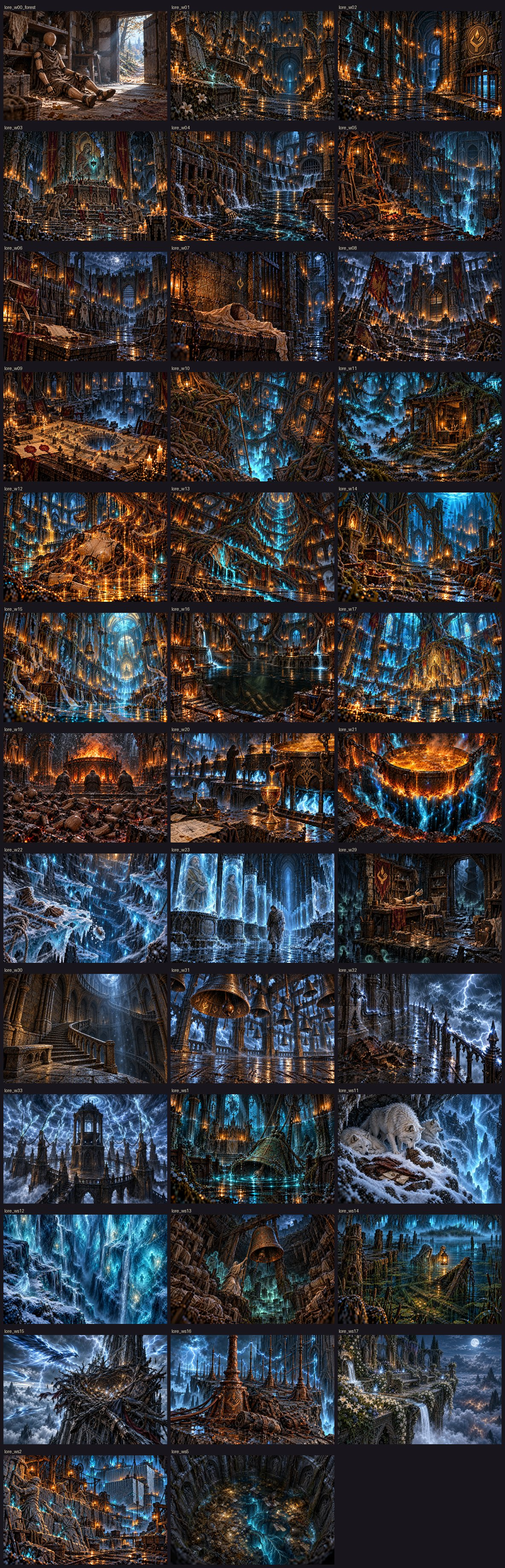
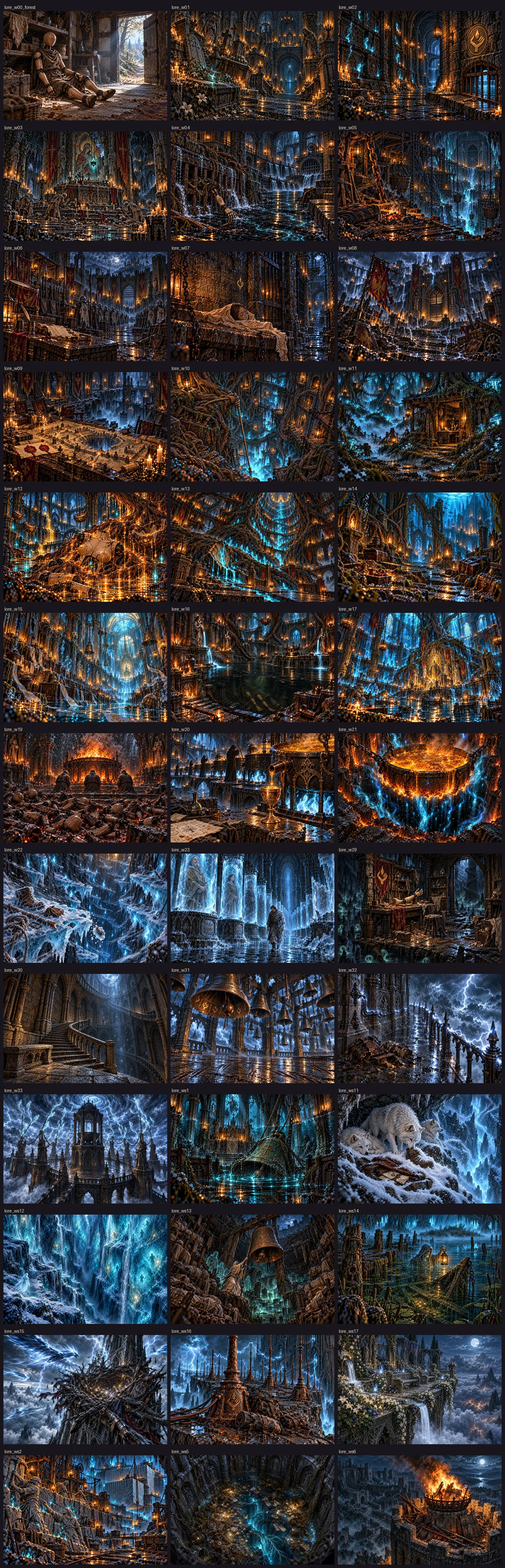
見捨てられた狼煙台の描き下ろしWebPを由来と出撃画面へ登録

Changed region(s): [[0.6562, 0.8998, 1.0, 1.0]]

diff --git a/src/ui/departure.js b/src/ui/departure.js
@@ -23,6 +23,7 @@ import { ELEMENTS } from "../dungeons/index.js";
 import { iconCanvas } from "../townart.js";
 import { drawDungeonVista } from "../backdrops.js";
 import { CHAPTERS } from "../story.js";
+import { LORE_IMAGES } from "../storyimages.js";
 import { dungeonQuestSheet, dungeonActiveQuestSheet, byLevelDesc } from "./questboard.js";
 
 const G = () => game.G;
@@ -89,6 +90,18 @@ function gateIcon(kind) {
 // ---- 迷宮の顔 (上半分): 選んでいる迷宮の情景・説明・記録 ----
 const VISTA_W = 480, VISTA_H = 320; // 戦闘背景と同じ 3:2 で描き、表示枠 (横長) で上下を切る
 let vistaLoop = 0;
+function vistaIllustration(dn) {
+  const path = dn.id === "ws6" && LORE_IMAGES[dn.id];
+  if (!path) return vistaCanvas(dn);
+  const img = document.createElement("img");
+  img.className = "dp-vista-cv";
+  img.style.imageRendering = "auto";
+  img.alt = `${dn.name}の情景`;
+  img.decoding = "async";
+  img.onerror = () => { if (img.isConnected) img.replaceWith(vistaCanvas(dn)); };
+  img.src = path;
+  return img;
+}
 function vistaCanvas(dn) {
   const cv = document.createElement("canvas");
   cv.width = VISTA_W; cv.height = VISTA_H;
@@ -176,7 +189,7 @@ function renderHero(b) {
   if (!dn) return;
   const hero = el("div", "dp-hero");
   const pic = el("div", "dp-vista");
-  pic.appendChild(vistaCanvas(dn));
+  pic.appendChild(vistaIllustration(dn));
   const cap = el("div", "dp-vista-cap");
   const band = game.levelBand ? game.levelBand(dn) : [1, 1];
   const ttl = el("div", "dp-hero-t");

diff --git a/src/storyimages.js b/src/storyimages.js
@@ -149,6 +149,7 @@ export const LORE_IMAGES = {
   ws1: "art/story/dungeons/lore_ws1.webp",
   ws2: "art/story/dungeons/lore_ws2.webp",
   ws5: "art/story/dungeons/lore_ws5.webp",
+  ws6: "art/story/dungeons/lore_ws6.webp",
   ws11: "art/story/dungeons/lore_ws11.webp",
   ws12: "art/story/dungeons/lore_ws12.webp",
   ws13: "art/story/dungeons/lore_ws13.webp",

diff --git a/sw.js b/sw.js
@@ -234,6 +234,7 @@ const ASSETS = [
   "./art/story/dungeons/lore_ws1.webp",
   "./art/story/dungeons/lore_ws2.webp",
   "./art/story/dungeons/lore_ws5.webp",
+  "./art/story/dungeons/lore_ws6.webp",
   "./art/story/dungeons/lore_ws11.webp",
   "./art/story/dungeons/lore_ws12.webp",
   "./art/story/dungeons/lore_ws13.webp",

diff --git a/art/story-review/dungeons/ws6-review.md b/art/story-review/dungeons/ws6-review.md
@@ -1,0 +1,12 @@
+# 見捨てられた狼煙台の描き下ろし
+
+専用原画・WebPが未制作だったため、`node tools/storyart/prompt.mjs lore_ws6` の本文と制作指示に沿って新規制作した。百年燃え続ける狼煙、薪の代わりにくべた砦の扉と旗竿、援軍の来ない捨て砦を描く。
+
+- 原画: [lore_ws6.png](lore_ws6.png)（1536×1024）
+- 配信画像: [lore_ws6.webp](../../story/dungeons/lore_ws6.webp)（品質88、約432KB）
+- [スマホの出撃画面](ws6-departure-mobile.png)・[PCの出撃画面](ws6-departure-desktop.png)
+- [本文との比較](../review/dungeons.md#lore_ws6見捨てられた狼煙台--描き下ろし)・[縮小の見本](../review/dungeons-small.jpg)
+
+`python3 tools/storyart/build.py` でWebP変換、由来の台帳、Service Worker、確認ページを生成。出撃画面もws6のWebPを滑らかに表示し、取得失敗時は既存の情景へ戻す。
+
+確認: 原画と登録の整合、指示書と本文、読み物の解放・状態保全、変更JSの構文、差分の空白、Chromiumで幅390/1280pxの出撃表示、由来と先読みの登録、画像取得失敗時の旧描画。ブラウザ実行時エラーなし。

diff --git a/art/story-review/review/status.md b/art/story-review/review/status.md
@@ -179,7 +179,7 @@
 | 由来 | `ws3` | 霧の迷い森 | 未着手 (情景・手がかりの絵で代用) | [見る](dungeons.md#lore_ws3) |
 | 由来 | `ws4` | 銀業の隠れ里 | 未着手 (情景・手がかりの絵で代用) | [見る](dungeons.md#lore_ws4) |
 | 由来 | `ws5` | 王都の古井戸 | 出荷済み | [見る](dungeons.md#lore_ws5) |
-| 由来 | `ws6` | 見捨てられた狼煙台 | 未着手 (情景・手がかりの絵で代用) | [見る](dungeons.md#lore_ws6) |
+| 由来 | `ws6` | 見捨てられた狼煙台 | 出荷済み | [見る](dungeons.md#lore_ws6) |
 | 由来 | `ws7` | 獄吏の詰所 | 未着手 (情景・手がかりの絵で代用) | [見る](dungeons.md#lore_ws7) |
 | 由来 | `ws8` | 沈んだ書庫 | 未着手 (情景・手がかりの絵で代用) | [見る](dungeons.md#lore_ws8) |
 | 由来 | `ws9` | 黒曜の切り場 | 未着手 (情景・手がかりの絵で代用) | [見る](dungeons.md#lore_ws9) |

diff --git a/art/story-review/review/dungeons.md b/art/story-review/review/dungeons.md
@@ -750,9 +750,9 @@ _(絵はまだ無い)_
 
 <a name="lore_ws6"></a>
 
-## lore_ws6「見捨てられた狼煙台」 ── 未着手
+## lore_ws6「見捨てられた狼煙台」 ── 出荷済み
 
-_(絵はまだ無い)_
+<img src="../../../art/story/dungeons/lore_ws6.webp" width="576" alt="lore_ws6">
 
 **ストーリー一覧の本文**
 
